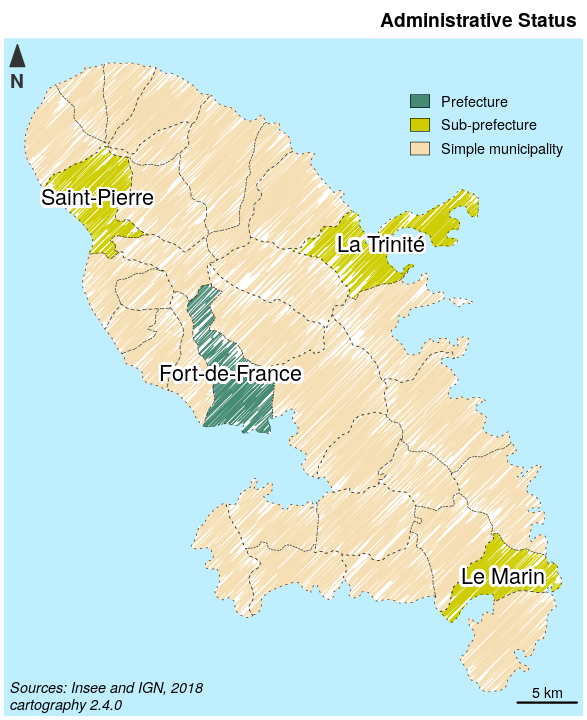
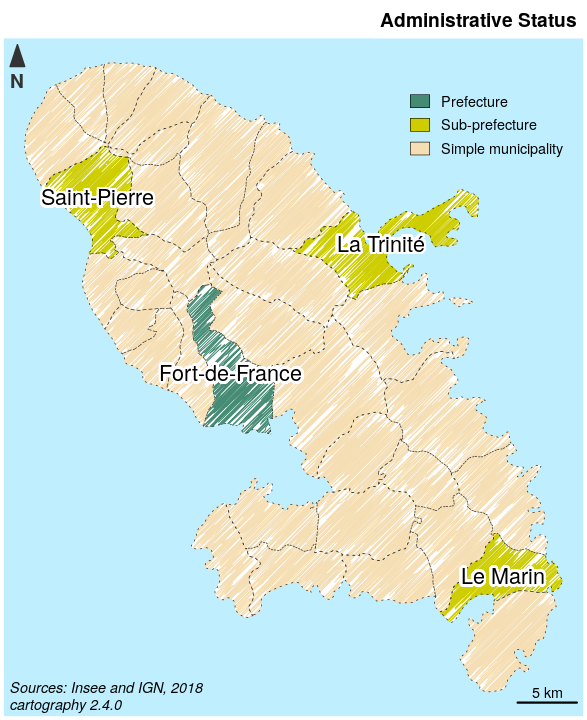
site

Changed region(s): [[0.0307, 0.0917, 0.9813, 0.9778]]

diff --git a/docs/reference/legendHatched.html b/docs/reference/legendHatched.html
@@ -232,7 +232,7 @@ Parameters would honour the order of the <code>categ</code> variable.</p>
     <pre class="examples"><div class='input'><span class='fu'><a href='https://rdrr.io/r/base/library.html'>library</a></span>(<span class='no'>sf</span>)
 <span class='no'>mtq</span> <span class='kw'>&lt;-</span>  <span class='fu'><a href='https://rdrr.io/pkg/sf/man/st_read.html'>st_read</a></span>(<span class='fu'><a href='https://rdrr.io/r/base/system.file.html'>system.file</a></span>(<span class='st'>"gpkg/mtq.gpkg"</span>,
                             <span class='kw'>package</span> <span class='kw'>=</span> <span class='st'>"cartography"</span>),
-                <span class='kw'>stringsAsFactors</span> <span class='kw'>=</span> <span class='fl'>FALSE</span>)</div><div class='output co'>#&gt; Reading layer `mtq' from data source `/tmp/Rtmp93HW5u/temp_libpathf3935a202e2/cartography/gpkg/mtq.gpkg' using driver `GPKG'
+                <span class='kw'>stringsAsFactors</span> <span class='kw'>=</span> <span class='fl'>FALSE</span>)</div><div class='output co'>#&gt; Reading layer `mtq' from data source `/tmp/Rtmpe1NJW9/temp_libpathb2e69cc94c1/cartography/gpkg/mtq.gpkg' using driver `GPKG'
 #&gt; Simple feature collection with 34 features and 7 fields
 #&gt; geometry type:  MULTIPOLYGON
 #&gt; dimension:      XY
@@ -245,22 +245,21 @@ Parameters would honour the order of the <code>categ</code> variable.</p>
           <span class='kw'>legend.values.order</span> <span class='kw'>=</span> <span class='no'>ord</span>,
           <span class='kw'>col</span> <span class='kw'>=</span> <span class='fu'><a href='https://rdrr.io/r/base/c.html'>c</a></span>(<span class='st'>"grey10"</span>, <span class='st'>"grey50"</span>, <span class='st'>"grey80"</span>),<span class='kw'>border</span> <span class='kw'>=</span> <span class='fl'>NA</span>)</div><div class='input'>
 <span class='no'>mtq</span>$<span class='no'>Patts</span> <span class='kw'>=</span> <span class='fu'><a href='https://rdrr.io/r/base/cut.html'>cut</a></span>(<span class='no'>mtq</span>$<span class='no'>MED</span>,<span class='fu'><a href='https://rdrr.io/r/base/c.html'>c</a></span>(-<span class='fl'>Inf</span>,<span class='fl'>14000</span>,<span class='fl'>18000</span>,<span class='fl'>Inf</span>), <span class='kw'>labels</span><span class='kw'>=</span><span class='fl'>FALSE</span>)
-<span class='fu'><a href='hatchedLayer.html'>hatchedLayer</a></span>( <span class='no'>mtq</span>[<span class='no'>mtq</span>$<span class='no'>Patts</span> <span class='kw'>==</span> <span class='fl'>1</span>,],<span class='st'>"zigzag"</span>,
-              <span class='kw'>density</span> <span class='kw'>=</span> <span class='fl'>2</span>,  <span class='kw'>col</span> <span class='kw'>=</span> <span class='st'>"white"</span>,  <span class='kw'>add</span> <span class='kw'>=</span> <span class='fl'>TRUE</span>,  <span class='kw'>pch</span> <span class='kw'>=</span> <span class='fl'>3</span>,  <span class='kw'>cex</span> <span class='kw'>=</span> <span class='fl'>0.6</span>)</div><div class='input'><span class='fu'><a href='hatchedLayer.html'>hatchedLayer</a></span>(<span class='no'>mtq</span>[<span class='no'>mtq</span>$<span class='no'>Patts</span> <span class='kw'>==</span> <span class='fl'>2</span>, ],<span class='st'>"horizontal"</span>,
+<span class='fu'><a href='hatchedLayer.html'>hatchedLayer</a></span>( <span class='no'>mtq</span>[<span class='no'>mtq</span>$<span class='no'>Patts</span> <span class='kw'>==</span> <span class='fl'>1</span>,],<span class='st'>"left2right"</span>,
+              <span class='kw'>density</span> <span class='kw'>=</span> <span class='fl'>2</span>,  <span class='kw'>col</span> <span class='kw'>=</span> <span class='st'>"white"</span>,  <span class='kw'>add</span> <span class='kw'>=</span> <span class='fl'>TRUE</span>,  <span class='kw'>pch</span> <span class='kw'>=</span> <span class='fl'>3</span>,  <span class='kw'>cex</span> <span class='kw'>=</span> <span class='fl'>0.6</span>)</div><div class='input'><span class='fu'><a href='hatchedLayer.html'>hatchedLayer</a></span>(<span class='no'>mtq</span>[<span class='no'>mtq</span>$<span class='no'>Patts</span> <span class='kw'>==</span> <span class='fl'>2</span>, ],<span class='st'>"left2right"</span>,
              <span class='kw'>density</span> <span class='kw'>=</span> <span class='fl'>4</span>, <span class='kw'>col</span> <span class='kw'>=</span> <span class='st'>"white"</span>, <span class='kw'>add</span> <span class='kw'>=</span> <span class='fl'>TRUE</span>)</div><div class='input'><span class='fu'><a href='hatchedLayer.html'>hatchedLayer</a></span>(<span class='no'>mtq</span>[<span class='no'>mtq</span>$<span class='no'>Patts</span> <span class='kw'>==</span> <span class='fl'>3</span>, ], <span class='st'>"left2right"</span>, <span class='kw'>col</span> <span class='kw'>=</span> <span class='st'>"white"</span>,
-             <span class='kw'>add</span> <span class='kw'>=</span> <span class='fl'>TRUE</span>, <span class='kw'>density</span> <span class='kw'>=</span> <span class='fl'>1.5</span>)</div><div class='input'>
+             <span class='kw'>add</span> <span class='kw'>=</span> <span class='fl'>TRUE</span>, <span class='kw'>density</span> <span class='kw'>=</span> <span class='fl'>6</span>)</div><div class='input'>
 <span class='fu'>legendHatched</span>(<span class='kw'>pos</span> <span class='kw'>=</span> <span class='st'>"bottomleft"</span>,
               <span class='kw'>cex</span> <span class='kw'>=</span> <span class='fl'>1.5</span>,
               <span class='kw'>values.cex</span> <span class='kw'>=</span> <span class='fl'>0.8</span>,
-              <span class='kw'>title.txt</span> <span class='kw'>=</span> <span class='st'>"Median Income (€)"</span>,
-              <span class='kw'>categ</span> <span class='kw'>=</span> <span class='fu'><a href='https://rdrr.io/r/base/c.html'>c</a></span>(<span class='st'>"&lt; 14k €"</span>,<span class='st'>"14k-18k €"</span>,<span class='st'>"&gt;18k €"</span>,
+              <span class='kw'>title.txt</span> <span class='kw'>=</span> <span class='st'>"Median Income\n(in thousand of euros)"</span>,
+              <span class='kw'>categ</span> <span class='kw'>=</span> <span class='fu'><a href='https://rdrr.io/r/base/c.html'>c</a></span>(<span class='st'>"&lt; 14"</span>,<span class='st'>"14 - 18"</span>,<span class='st'>"&gt;18"</span>,
                         <span class='st'>"Prefecture"</span>, <span class='st'>"Sub-prefecture"</span>,
                         <span class='st'>"Simple municipality"</span>),
-              <span class='kw'>patterns</span> <span class='kw'>=</span> <span class='fu'><a href='https://rdrr.io/r/base/c.html'>c</a></span>(<span class='st'>"zigzag"</span>,<span class='st'>"horizontal"</span>,<span class='st'>"left2right"</span>),
+              <span class='kw'>patterns</span> <span class='kw'>=</span> <span class='fu'><a href='https://rdrr.io/r/base/c.html'>c</a></span>(<span class='st'>"left2right"</span>), <span class='kw'>density</span> <span class='kw'>=</span> <span class='fu'><a href='https://rdrr.io/r/base/c.html'>c</a></span>(<span class='fl'>1</span>, <span class='fl'>2</span>, <span class='fl'>3</span>),
               <span class='kw'>col</span> <span class='kw'>=</span> <span class='fu'><a href='https://rdrr.io/r/base/c.html'>c</a></span>(<span class='fu'><a href='https://rdrr.io/r/base/rep.html'>rep</a></span>(<span class='st'>"black"</span>, <span class='fl'>3</span>), <span class='st'>"grey10"</span>, <span class='st'>"grey50"</span>, <span class='st'>"grey80"</span>),
               <span class='kw'>ptrn.bg</span> <span class='kw'>=</span> <span class='fu'><a href='https://rdrr.io/r/base/c.html'>c</a></span>(<span class='fu'><a href='https://rdrr.io/r/base/rep.html'>rep</a></span>(<span class='st'>"white"</span>, <span class='fl'>3</span>), <span class='st'>"grey10"</span>, <span class='st'>"grey50"</span>, <span class='st'>"grey80"</span>),
-              <span class='kw'>pch</span> <span class='kw'>=</span> <span class='fl'>3</span>
-              )</div><div class='output co'>#&gt; <span class='warning'>Warning: erreur de conversion de '&gt;18k €' dans 'mbcsToSbcs' : le point est substitué pour &lt;e2&gt;</span></div><div class='output co'>#&gt; <span class='warning'>Warning: erreur de conversion de '&gt;18k €' dans 'mbcsToSbcs' : le point est substitué pour &lt;82&gt;</span></div><div class='output co'>#&gt; <span class='warning'>Warning: erreur de conversion de '&gt;18k €' dans 'mbcsToSbcs' : le point est substitué pour &lt;ac&gt;</span></div><div class='output co'>#&gt; <span class='warning'>Warning: erreur de conversion de '14k-18k €' dans 'mbcsToSbcs' : le point est substitué pour &lt;e2&gt;</span></div><div class='output co'>#&gt; <span class='warning'>Warning: erreur de conversion de '14k-18k €' dans 'mbcsToSbcs' : le point est substitué pour &lt;82&gt;</span></div><div class='output co'>#&gt; <span class='warning'>Warning: erreur de conversion de '14k-18k €' dans 'mbcsToSbcs' : le point est substitué pour &lt;ac&gt;</span></div><div class='output co'>#&gt; <span class='warning'>Warning: erreur de conversion de '&lt; 14k €' dans 'mbcsToSbcs' : le point est substitué pour &lt;e2&gt;</span></div><div class='output co'>#&gt; <span class='warning'>Warning: erreur de conversion de '&lt; 14k €' dans 'mbcsToSbcs' : le point est substitué pour &lt;82&gt;</span></div><div class='output co'>#&gt; <span class='warning'>Warning: erreur de conversion de '&lt; 14k €' dans 'mbcsToSbcs' : le point est substitué pour &lt;ac&gt;</span></div><div class='output co'>#&gt; <span class='warning'>Warning: erreur de conversion de '&gt;18k €' dans 'mbcsToSbcs' : le point est substitué pour &lt;e2&gt;</span></div><div class='output co'>#&gt; <span class='warning'>Warning: erreur de conversion de '&gt;18k €' dans 'mbcsToSbcs' : le point est substitué pour &lt;82&gt;</span></div><div class='output co'>#&gt; <span class='warning'>Warning: erreur de conversion de '&gt;18k €' dans 'mbcsToSbcs' : le point est substitué pour &lt;ac&gt;</span></div><div class='output co'>#&gt; <span class='warning'>Warning: erreur de conversion de '14k-18k €' dans 'mbcsToSbcs' : le point est substitué pour &lt;e2&gt;</span></div><div class='output co'>#&gt; <span class='warning'>Warning: erreur de conversion de '14k-18k €' dans 'mbcsToSbcs' : le point est substitué pour &lt;82&gt;</span></div><div class='output co'>#&gt; <span class='warning'>Warning: erreur de conversion de '14k-18k €' dans 'mbcsToSbcs' : le point est substitué pour &lt;ac&gt;</span></div><div class='output co'>#&gt; <span class='warning'>Warning: erreur de conversion de '&lt; 14k €' dans 'mbcsToSbcs' : le point est substitué pour &lt;e2&gt;</span></div><div class='output co'>#&gt; <span class='warning'>Warning: erreur de conversion de '&lt; 14k €' dans 'mbcsToSbcs' : le point est substitué pour &lt;82&gt;</span></div><div class='output co'>#&gt; <span class='warning'>Warning: erreur de conversion de '&lt; 14k €' dans 'mbcsToSbcs' : le point est substitué pour &lt;ac&gt;</span></div><div class='output co'>#&gt; <span class='warning'>Warning: erreur de conversion de 'Median Income (€)' dans 'mbcsToSbcs' : le point est substitué pour &lt;e2&gt;</span></div><div class='output co'>#&gt; <span class='warning'>Warning: erreur de conversion de 'Median Income (€)' dans 'mbcsToSbcs' : le point est substitué pour &lt;82&gt;</span></div><div class='output co'>#&gt; <span class='warning'>Warning: erreur de conversion de 'Median Income (€)' dans 'mbcsToSbcs' : le point est substitué pour &lt;ac&gt;</span></div><div class='output co'>#&gt; <span class='warning'>Warning: erreur de conversion de '&gt;18k €' dans 'mbcsToSbcs' : le point est substitué pour &lt;e2&gt;</span></div><div class='output co'>#&gt; <span class='warning'>Warning: erreur de conversion de '&gt;18k €' dans 'mbcsToSbcs' : le point est substitué pour &lt;82&gt;</span></div><div class='output co'>#&gt; <span class='warning'>Warning: erreur de conversion de '&gt;18k €' dans 'mbcsToSbcs' : le point est substitué pour &lt;ac&gt;</span></div><div class='output co'>#&gt; <span class='warning'>Warning: erreur de conversion de '14k-18k €' dans 'mbcsToSbcs' : le point est substitué pour &lt;e2&gt;</span></div><div class='output co'>#&gt; <span class='warning'>Warning: erreur de conversion de '14k-18k €' dans 'mbcsToSbcs' : le point est substitué pour &lt;82&gt;</span></div><div class='output co'>#&gt; <span class='warning'>Warning: erreur de conversion de '14k-18k €' dans 'mbcsToSbcs' : le point est substitué pour &lt;ac&gt;</span></div><div class='output co'>#&gt; <span class='warning'>Warning: erreur de conversion de '&lt; 14k €' dans 'mbcsToSbcs' : le point est substitué pour &lt;e2&gt;</span></div><div class='output co'>#&gt; <span class='warning'>Warning: erreur de conversion de '&lt; 14k €' dans 'mbcsToSbcs' : le point est substitué pour &lt;82&gt;</span></div><div class='output co'>#&gt; <span class='warning'>Warning: erreur de conversion de '&lt; 14k €' dans 'mbcsToSbcs' : le point est substitué pour &lt;ac&gt;</span></div><div class='output co'>#&gt; <span class='warning'>Warning: erreur de conversion de 'Median Income (€)' dans 'mbcsToSbcs' : le point est substitué pour &lt;e2&gt;</span></div><div class='output co'>#&gt; <span class='warning'>Warning: erreur de conversion de 'Median Income (€)' dans 'mbcsToSbcs' : le point est substitué pour &lt;82&gt;</span></div><div class='output co'>#&gt; <span class='warning'>Warning: erreur de conversion de 'Median Income (€)' dans 'mbcsToSbcs' : le point est substitué pour &lt;ac&gt;</span></div><div class='input'><span class='fu'><a href='https://rdrr.io/pkg/sf/man/plot.html'>plot</a></span>(<span class='fu'><a href='https://rdrr.io/pkg/sf/man/st_geometry.html'>st_geometry</a></span>(<span class='fu'><a href='https://rdrr.io/pkg/sf/man/geos_combine.html'>st_union</a></span>(<span class='no'>mtq</span>)), <span class='kw'>add</span> <span class='kw'>=</span> <span class='fl'>TRUE</span>)</div><div class='img'><img src='legendHatched-1.png' alt='' width='525' height='504' /></div></pre>
+              <span class='kw'>pch</span> <span class='kw'>=</span> <span class='fl'>3</span>)</div><div class='input'><span class='fu'><a href='https://rdrr.io/pkg/sf/man/plot.html'>plot</a></span>(<span class='fu'><a href='https://rdrr.io/pkg/sf/man/st_geometry.html'>st_geometry</a></span>(<span class='fu'><a href='https://rdrr.io/pkg/sf/man/geos_combine.html'>st_union</a></span>(<span class='no'>mtq</span>)), <span class='kw'>add</span> <span class='kw'>=</span> <span class='fl'>TRUE</span>)</div><div class='img'><img src='legendHatched-1.png' alt='' width='525' height='504' /></div></pre>
   </div>
   <div class="col-md-3 hidden-xs hidden-sm" id="pkgdown-sidebar">
     <nav id="toc" data-toggle="toc" class="sticky-top">

diff --git a/docs/reference/getBorders.html b/docs/reference/getBorders.html
@@ -199,7 +199,7 @@ of id1 and id2 (with "_" as separator).</p>
 
     <h2 class="hasAnchor" id="examples"><a class="anchor" href="#examples"></a>Examples</h2>
     <pre class="examples"><div class='input'><span class='fu'><a href='https://rdrr.io/r/base/library.html'>library</a></span>(<span class='no'>sf</span>)
-<span class='no'>mtq</span> <span class='kw'>&lt;-</span> <span class='fu'><a href='https://rdrr.io/pkg/sf/man/st_read.html'>st_read</a></span>(<span class='fu'><a href='https://rdrr.io/r/base/system.file.html'>system.file</a></span>(<span class='st'>"gpkg/mtq.gpkg"</span>, <span class='kw'>package</span><span class='kw'>=</span><span class='st'>"cartography"</span>))</div><div class='output co'>#&gt; Reading layer `mtq' from data source `/tmp/Rtmp93HW5u/temp_libpathf3935a202e2/cartography/gpkg/mtq.gpkg' using driver `GPKG'
+<span class='no'>mtq</span> <span class='kw'>&lt;-</span> <span class='fu'><a href='https://rdrr.io/pkg/sf/man/st_read.html'>st_read</a></span>(<span class='fu'><a href='https://rdrr.io/r/base/system.file.html'>system.file</a></span>(<span class='st'>"gpkg/mtq.gpkg"</span>, <span class='kw'>package</span><span class='kw'>=</span><span class='st'>"cartography"</span>))</div><div class='output co'>#&gt; Reading layer `mtq' from data source `/tmp/Rtmpe1NJW9/temp_libpathb2e69cc94c1/cartography/gpkg/mtq.gpkg' using driver `GPKG'
 #&gt; Simple feature collection with 34 features and 7 fields
 #&gt; geometry type:  MULTIPOLYGON
 #&gt; dimension:      XY
@@ -211,7 +211,7 @@ of id1 and id2 (with "_" as separator).</p>
 <span class='fu'><a href='https://rdrr.io/pkg/sf/man/plot.html'>plot</a></span>(<span class='fu'><a href='https://rdrr.io/pkg/sf/man/st_geometry.html'>st_geometry</a></span>(<span class='no'>mtq.borders</span>),
      <span class='kw'>col</span> <span class='kw'>=</span> <span class='fu'><a href='https://rdrr.io/r/base/sample.html'>sample</a></span>(<span class='kw'>x</span> <span class='kw'>=</span> <span class='fu'><a href='https://rdrr.io/r/grDevices/palettes.html'>rainbow</a></span>(<span class='fu'><a href='https://rdrr.io/r/base/nrow.html'>nrow</a></span>(<span class='no'>mtq.borders</span>))),
      <span class='kw'>lwd</span> <span class='kw'>=</span> <span class='fl'>3</span>, <span class='kw'>add</span> <span class='kw'>=</span> <span class='fl'>TRUE</span>)</div><div class='img'><img src='getBorders-1.png' alt='' width='525' height='504' /></div><div class='input'><span class='fu'><a href='https://rdrr.io/r/base/library.html'>library</a></span>(<span class='no'>sf</span>)
-<span class='no'>mtq</span> <span class='kw'>&lt;-</span> <span class='fu'><a href='https://rdrr.io/pkg/sf/man/st_read.html'>st_read</a></span>(<span class='fu'><a href='https://rdrr.io/r/base/system.file.html'>system.file</a></span>(<span class='st'>"gpkg/mtq.gpkg"</span>, <span class='kw'>package</span><span class='kw'>=</span><span class='st'>"cartography"</span>))</div><div class='output co'>#&gt; Reading layer `mtq' from data source `/tmp/Rtmp93HW5u/temp_libpathf3935a202e2/cartography/gpkg/mtq.gpkg' using driver `GPKG'
+<span class='no'>mtq</span> <span class='kw'>&lt;-</span> <span class='fu'><a href='https://rdrr.io/pkg/sf/man/st_read.html'>st_read</a></span>(<span class='fu'><a href='https://rdrr.io/r/base/system.file.html'>system.file</a></span>(<span class='st'>"gpkg/mtq.gpkg"</span>, <span class='kw'>package</span><span class='kw'>=</span><span class='st'>"cartography"</span>))</div><div class='output co'>#&gt; Reading layer `mtq' from data source `/tmp/Rtmpe1NJW9/temp_libpathb2e69cc94c1/cartography/gpkg/mtq.gpkg' using driver `GPKG'
 #&gt; Simple feature collection with 34 features and 7 fields
 #&gt; geometry type:  MULTIPOLYGON
 #&gt; dimension:      XY

diff --git a/docs/reference/barscale.html b/docs/reference/barscale.html
@@ -193,7 +193,7 @@ set, an automatic size is used (1/10 of the map width).</p></td>
     <div class='dont-index'><p><a href='layoutLayer.html'>layoutLayer</a></p></div>
 
     <h2 class="hasAnchor" id="examples"><a class="anchor" href="#examples"></a>Examples</h2>
-    <pre class="examples"><div class='input'><span class='fu'><a href='https://rdrr.io/r/base/library.html'>library</a></span>(<span class='no'>sf</span>)</div><div class='output co'>#&gt; <span class='message'>Linking to GEOS 3.7.1, GDAL 2.4.0, PROJ 5.2.0</span></div><div class='input'><span class='no'>mtq</span> <span class='kw'>&lt;-</span> <span class='fu'><a href='https://rdrr.io/pkg/sf/man/st_read.html'>st_read</a></span>(<span class='fu'><a href='https://rdrr.io/r/base/system.file.html'>system.file</a></span>(<span class='st'>"gpkg/mtq.gpkg"</span>, <span class='kw'>package</span><span class='kw'>=</span><span class='st'>"cartography"</span>))</div><div class='output co'>#&gt; Reading layer `mtq' from data source `/tmp/Rtmp93HW5u/temp_libpathf3935a202e2/cartography/gpkg/mtq.gpkg' using driver `GPKG'
+    <pre class="examples"><div class='input'><span class='fu'><a href='https://rdrr.io/r/base/library.html'>library</a></span>(<span class='no'>sf</span>)</div><div class='output co'>#&gt; <span class='message'>Linking to GEOS 3.7.1, GDAL 2.4.0, PROJ 5.2.0</span></div><div class='input'><span class='no'>mtq</span> <span class='kw'>&lt;-</span> <span class='fu'><a href='https://rdrr.io/pkg/sf/man/st_read.html'>st_read</a></span>(<span class='fu'><a href='https://rdrr.io/r/base/system.file.html'>system.file</a></span>(<span class='st'>"gpkg/mtq.gpkg"</span>, <span class='kw'>package</span><span class='kw'>=</span><span class='st'>"cartography"</span>))</div><div class='output co'>#&gt; Reading layer `mtq' from data source `/tmp/Rtmpe1NJW9/temp_libpathb2e69cc94c1/cartography/gpkg/mtq.gpkg' using driver `GPKG'
 #&gt; Simple feature collection with 34 features and 7 fields
 #&gt; geometry type:  MULTIPOLYGON
 #&gt; dimension:      XY

diff --git a/docs/reference/labelLayer.html b/docs/reference/labelLayer.html
@@ -235,7 +235,7 @@ arguments bg and r can be modified to set the color and width of the halo.</p></
     <h2 class="hasAnchor" id="examples"><a class="anchor" href="#examples"></a>Examples</h2>
     <pre class="examples"><div class='input'><span class='fu'><a href='https://rdrr.io/r/base/library.html'>library</a></span>(<span class='no'>sf</span>)
 <span class='no'>opar</span> <span class='kw'>&lt;-</span> <span class='fu'><a href='https://rdrr.io/r/graphics/par.html'>par</a></span>(<span class='kw'>mar</span> <span class='kw'>=</span> <span class='fu'><a href='https://rdrr.io/r/base/c.html'>c</a></span>(<span class='fl'>0</span>,<span class='fl'>0</span>,<span class='fl'>0</span>,<span class='fl'>0</span>))
-<span class='no'>mtq</span> <span class='kw'>&lt;-</span> <span class='fu'><a href='https://rdrr.io/pkg/sf/man/st_read.html'>st_read</a></span>(<span class='fu'><a href='https://rdrr.io/r/base/system.file.html'>system.file</a></span>(<span class='st'>"gpkg/mtq.gpkg"</span>, <span class='kw'>package</span><span class='kw'>=</span><span class='st'>"cartography"</span>))</div><div class='output co'>#&gt; Reading layer `mtq' from data source `/tmp/Rtmp93HW5u/temp_libpathf3935a202e2/cartography/gpkg/mtq.gpkg' using driver `GPKG'
+<span class='no'>mtq</span> <span class='kw'>&lt;-</span> <span class='fu'><a href='https://rdrr.io/pkg/sf/man/st_read.html'>st_read</a></span>(<span class='fu'><a href='https://rdrr.io/r/base/system.file.html'>system.file</a></span>(<span class='st'>"gpkg/mtq.gpkg"</span>, <span class='kw'>package</span><span class='kw'>=</span><span class='st'>"cartography"</span>))</div><div class='output co'>#&gt; Reading layer `mtq' from data source `/tmp/Rtmpe1NJW9/temp_libpathb2e69cc94c1/cartography/gpkg/mtq.gpkg' using driver `GPKG'
 #&gt; Simple feature collection with 34 features and 7 fields
 #&gt; geometry type:  MULTIPOLYGON
 #&gt; dimension:      XY

diff --git a/docs/reference/discLayer.html b/docs/reference/discLayer.html
@@ -285,7 +285,7 @@ The "abs" type of discontinuity is the result of pmax(value unit 1 - value unit 
 
     <h2 class="hasAnchor" id="examples"><a class="anchor" href="#examples"></a>Examples</h2>
     <pre class="examples"><div class='input'><span class='fu'><a href='https://rdrr.io/r/base/library.html'>library</a></span>(<span class='no'>sf</span>)
-<span class='no'>mtq</span> <span class='kw'>&lt;-</span> <span class='fu'><a href='https://rdrr.io/pkg/sf/man/st_read.html'>st_read</a></span>(<span class='fu'><a href='https://rdrr.io/r/base/system.file.html'>system.file</a></span>(<span class='st'>"gpkg/mtq.gpkg"</span>, <span class='kw'>package</span><span class='kw'>=</span><span class='st'>"cartography"</span>))</div><div class='output co'>#&gt; Reading layer `mtq' from data source `/tmp/Rtmp93HW5u/temp_libpathf3935a202e2/cartography/gpkg/mtq.gpkg' using driver `GPKG'
+<span class='no'>mtq</span> <span class='kw'>&lt;-</span> <span class='fu'><a href='https://rdrr.io/pkg/sf/man/st_read.html'>st_read</a></span>(<span class='fu'><a href='https://rdrr.io/r/base/system.file.html'>system.file</a></span>(<span class='st'>"gpkg/mtq.gpkg"</span>, <span class='kw'>package</span><span class='kw'>=</span><span class='st'>"cartography"</span>))</div><div class='output co'>#&gt; Reading layer `mtq' from data source `/tmp/Rtmpe1NJW9/temp_libpathb2e69cc94c1/cartography/gpkg/mtq.gpkg' using driver `GPKG'
 #&gt; Simple feature collection with 34 features and 7 fields
 #&gt; geometry type:  MULTIPOLYGON
 #&gt; dimension:      XY

diff --git a/docs/reference/getBreaks.html b/docs/reference/getBreaks.html
@@ -203,7 +203,7 @@ the mean value is the center of a class else the mean is a break value.</p>
 
     <h2 class="hasAnchor" id="examples"><a class="anchor" href="#examples"></a>Examples</h2>
     <pre class="examples"><div class='input'><span class='fu'><a href='https://rdrr.io/r/base/library.html'>library</a></span>(<span class='no'>sf</span>)
-<span class='no'>mtq</span> <span class='kw'>&lt;-</span> <span class='fu'><a href='https://rdrr.io/pkg/sf/man/st_read.html'>st_read</a></span>(<span class='fu'><a href='https://rdrr.io/r/base/system.file.html'>system.file</a></span>(<span class='st'>"gpkg/mtq.gpkg"</span>, <span class='kw'>package</span><span class='kw'>=</span><span class='st'>"cartography"</span>))</div><div class='output co'>#&gt; Reading layer `mtq' from data source `/tmp/Rtmp93HW5u/temp_libpathf3935a202e2/cartography/gpkg/mtq.gpkg' using driver `GPKG'
+<span class='no'>mtq</span> <span class='kw'>&lt;-</span> <span class='fu'><a href='https://rdrr.io/pkg/sf/man/st_read.html'>st_read</a></span>(<span class='fu'><a href='https://rdrr.io/r/base/system.file.html'>system.file</a></span>(<span class='st'>"gpkg/mtq.gpkg"</span>, <span class='kw'>package</span><span class='kw'>=</span><span class='st'>"cartography"</span>))</div><div class='output co'>#&gt; Reading layer `mtq' from data source `/tmp/Rtmpe1NJW9/temp_libpathb2e69cc94c1/cartography/gpkg/mtq.gpkg' using driver `GPKG'
 #&gt; Simple feature collection with 34 features and 7 fields
 #&gt; geometry type:  MULTIPOLYGON
 #&gt; dimension:      XY

diff --git a/docs/reference/layoutLayer.html b/docs/reference/layoutLayer.html
@@ -249,7 +249,7 @@ The size of the title box in layoutLayer is fixed to 1.2 lines height.</p>
 
     <h2 class="hasAnchor" id="examples"><a class="anchor" href="#examples"></a>Examples</h2>
     <pre class="examples"><div class='input'><span class='fu'><a href='https://rdrr.io/r/base/library.html'>library</a></span>(<span class='no'>sf</span>)
-<span class='no'>mtq</span> <span class='kw'>&lt;-</span> <span class='fu'><a href='https://rdrr.io/pkg/sf/man/st_read.html'>st_read</a></span>(<span class='fu'><a href='https://rdrr.io/r/base/system.file.html'>system.file</a></span>(<span class='st'>"gpkg/mtq.gpkg"</span>, <span class='kw'>package</span><span class='kw'>=</span><span class='st'>"cartography"</span>))</div><div class='output co'>#&gt; Reading layer `mtq' from data source `/tmp/Rtmp93HW5u/temp_libpathf3935a202e2/cartography/gpkg/mtq.gpkg' using driver `GPKG'
+<span class='no'>mtq</span> <span class='kw'>&lt;-</span> <span class='fu'><a href='https://rdrr.io/pkg/sf/man/st_read.html'>st_read</a></span>(<span class='fu'><a href='https://rdrr.io/r/base/system.file.html'>system.file</a></span>(<span class='st'>"gpkg/mtq.gpkg"</span>, <span class='kw'>package</span><span class='kw'>=</span><span class='st'>"cartography"</span>))</div><div class='output co'>#&gt; Reading layer `mtq' from data source `/tmp/Rtmpe1NJW9/temp_libpathb2e69cc94c1/cartography/gpkg/mtq.gpkg' using driver `GPKG'
 #&gt; Simple feature collection with 34 features and 7 fields
 #&gt; geometry type:  MULTIPOLYGON
 #&gt; dimension:      XY

diff --git a/docs/reference/legendBarsSymbols.html b/docs/reference/legendBarsSymbols.html
@@ -225,7 +225,7 @@ styles, "c" stands for compact and "e" for extended.</p></td>
 
     <h2 class="hasAnchor" id="examples"><a class="anchor" href="#examples"></a>Examples</h2>
     <pre class="examples"><div class='input'><span class='fu'><a href='https://rdrr.io/r/base/library.html'>library</a></span>(<span class='no'>sf</span>)
-<span class='no'>mtq</span> <span class='kw'>&lt;-</span> <span class='fu'><a href='https://rdrr.io/pkg/sf/man/st_read.html'>st_read</a></span>(<span class='fu'><a href='https://rdrr.io/r/base/system.file.html'>system.file</a></span>(<span class='st'>"gpkg/mtq.gpkg"</span>, <span class='kw'>package</span><span class='kw'>=</span><span class='st'>"cartography"</span>))</div><div class='output co'>#&gt; Reading layer `mtq' from data source `/tmp/Rtmp93HW5u/temp_libpathf3935a202e2/cartography/gpkg/mtq.gpkg' using driver `GPKG'
+<span class='no'>mtq</span> <span class='kw'>&lt;-</span> <span class='fu'><a href='https://rdrr.io/pkg/sf/man/st_read.html'>st_read</a></span>(<span class='fu'><a href='https://rdrr.io/r/base/system.file.html'>system.file</a></span>(<span class='st'>"gpkg/mtq.gpkg"</span>, <span class='kw'>package</span><span class='kw'>=</span><span class='st'>"cartography"</span>))</div><div class='output co'>#&gt; Reading layer `mtq' from data source `/tmp/Rtmpe1NJW9/temp_libpathb2e69cc94c1/cartography/gpkg/mtq.gpkg' using driver `GPKG'
 #&gt; Simple feature collection with 34 features and 7 fields
 #&gt; geometry type:  MULTIPOLYGON
 #&gt; dimension:      XY

diff --git a/docs/reference/legendCirclesSymbols.html b/docs/reference/legendCirclesSymbols.html
@@ -225,7 +225,7 @@ styles, "c" stands for compact and "e" for extended.</p></td>
 
     <h2 class="hasAnchor" id="examples"><a class="anchor" href="#examples"></a>Examples</h2>
     <pre class="examples"><div class='input'><span class='fu'><a href='https://rdrr.io/r/base/library.html'>library</a></span>(<span class='no'>sf</span>)
-<span class='no'>mtq</span> <span class='kw'>&lt;-</span> <span class='fu'><a href='https://rdrr.io/pkg/sf/man/st_read.html'>st_read</a></span>(<span class='fu'><a href='https://rdrr.io/r/base/system.file.html'>system.file</a></span>(<span class='st'>"gpkg/mtq.gpkg"</span>, <span class='kw'>package</span><span class='kw'>=</span><span class='st'>"cartography"</span>))</div><div class='output co'>#&gt; Reading layer `mtq' from data source `/tmp/Rtmp93HW5u/temp_libpathf3935a202e2/cartography/gpkg/mtq.gpkg' using driver `GPKG'
+<span class='no'>mtq</span> <span class='kw'>&lt;-</span> <span class='fu'><a href='https://rdrr.io/pkg/sf/man/st_read.html'>st_read</a></span>(<span class='fu'><a href='https://rdrr.io/r/base/system.file.html'>system.file</a></span>(<span class='st'>"gpkg/mtq.gpkg"</span>, <span class='kw'>package</span><span class='kw'>=</span><span class='st'>"cartography"</span>))</div><div class='output co'>#&gt; Reading layer `mtq' from data source `/tmp/Rtmpe1NJW9/temp_libpathb2e69cc94c1/cartography/gpkg/mtq.gpkg' using driver `GPKG'
 #&gt; Simple feature collection with 34 features and 7 fields
 #&gt; geometry type:  MULTIPOLYGON
 #&gt; dimension:      XY

diff --git a/docs/reference/legendPropTriangles.html b/docs/reference/legendPropTriangles.html
@@ -239,7 +239,7 @@ styles, "c" stands for compact and "e" for extended.</p></td>
 
     <h2 class="hasAnchor" id="examples"><a class="anchor" href="#examples"></a>Examples</h2>
     <pre class="examples"><div class='input'><span class='fu'><a href='https://rdrr.io/r/base/library.html'>library</a></span>(<span class='no'>sf</span>)
-<span class='no'>mtq</span> <span class='kw'>&lt;-</span> <span class='fu'><a href='https://rdrr.io/pkg/sf/man/st_read.html'>st_read</a></span>(<span class='fu'><a href='https://rdrr.io/r/base/system.file.html'>system.file</a></span>(<span class='st'>"gpkg/mtq.gpkg"</span>, <span class='kw'>package</span><span class='kw'>=</span><span class='st'>"cartography"</span>))</div><div class='output co'>#&gt; Reading layer `mtq' from data source `/tmp/Rtmp93HW5u/temp_libpathf3935a202e2/cartography/gpkg/mtq.gpkg' using driver `GPKG'
+<span class='no'>mtq</span> <span class='kw'>&lt;-</span> <span class='fu'><a href='https://rdrr.io/pkg/sf/man/st_read.html'>st_read</a></span>(<span class='fu'><a href='https://rdrr.io/r/base/system.file.html'>system.file</a></span>(<span class='st'>"gpkg/mtq.gpkg"</span>, <span class='kw'>package</span><span class='kw'>=</span><span class='st'>"cartography"</span>))</div><div class='output co'>#&gt; Reading layer `mtq' from data source `/tmp/Rtmpe1NJW9/temp_libpathb2e69cc94c1/cartography/gpkg/mtq.gpkg' using driver `GPKG'
 #&gt; Simple feature collection with 34 features and 7 fields
 #&gt; geometry type:  MULTIPOLYGON
 #&gt; dimension:      XY

diff --git a/docs/reference/legendSquaresSymbols.html b/docs/reference/legendSquaresSymbols.html
@@ -225,7 +225,7 @@ styles, "c" stands for compact and "e" for extended.</p></td>
 
     <h2 class="hasAnchor" id="examples"><a class="anchor" href="#examples"></a>Examples</h2>
     <pre class="examples"><div class='input'><span class='fu'><a href='https://rdrr.io/r/base/library.html'>library</a></span>(<span class='no'>sf</span>)
-<span class='no'>mtq</span> <span class='kw'>&lt;-</span> <span class='fu'><a href='https://rdrr.io/pkg/sf/man/st_read.html'>st_read</a></span>(<span class='fu'><a href='https://rdrr.io/r/base/system.file.html'>system.file</a></span>(<span class='st'>"gpkg/mtq.gpkg"</span>, <span class='kw'>package</span><span class='kw'>=</span><span class='st'>"cartography"</span>))</div><div class='output co'>#&gt; Reading layer `mtq' from data source `/tmp/Rtmp93HW5u/temp_libpathf3935a202e2/cartography/gpkg/mtq.gpkg' using driver `GPKG'
+<span class='no'>mtq</span> <span class='kw'>&lt;-</span> <span class='fu'><a href='https://rdrr.io/pkg/sf/man/st_read.html'>st_read</a></span>(<span class='fu'><a href='https://rdrr.io/r/base/system.file.html'>system.file</a></span>(<span class='st'>"gpkg/mtq.gpkg"</span>, <span class='kw'>package</span><span class='kw'>=</span><span class='st'>"cartography"</span>))</div><div class='output co'>#&gt; Reading layer `mtq' from data source `/tmp/Rtmpe1NJW9/temp_libpathb2e69cc94c1/cartography/gpkg/mtq.gpkg' using driver `GPKG'
 #&gt; Simple feature collection with 34 features and 7 fields
 #&gt; geometry type:  MULTIPOLYGON
 #&gt; dimension:      XY

diff --git a/docs/reference/north.html b/docs/reference/north.html
@@ -174,7 +174,7 @@ vector of two coordinates in map units (c(x, y)).</p></td>
 
     <h2 class="hasAnchor" id="examples"><a class="anchor" href="#examples"></a>Examples</h2>
     <pre class="examples"><div class='input'><span class='fu'><a href='https://rdrr.io/r/base/library.html'>library</a></span>(<span class='no'>sf</span>)
-<span class='no'>mtq</span> <span class='kw'>&lt;-</span> <span class='fu'><a href='https://rdrr.io/pkg/sf/man/st_read.html'>st_read</a></span>(<span class='fu'><a href='https://rdrr.io/r/base/system.file.html'>system.file</a></span>(<span class='st'>"gpkg/mtq.gpkg"</span>, <span class='kw'>package</span><span class='kw'>=</span><span class='st'>"cartography"</span>))</div><div class='output co'>#&gt; Reading layer `mtq' from data source `/tmp/Rtmp93HW5u/temp_libpathf3935a202e2/cartography/gpkg/mtq.gpkg' using driver `GPKG'
+<span class='no'>mtq</span> <span class='kw'>&lt;-</span> <span class='fu'><a href='https://rdrr.io/pkg/sf/man/st_read.html'>st_read</a></span>(<span class='fu'><a href='https://rdrr.io/r/base/system.file.html'>system.file</a></span>(<span class='st'>"gpkg/mtq.gpkg"</span>, <span class='kw'>package</span><span class='kw'>=</span><span class='st'>"cartography"</span>))</div><div class='output co'>#&gt; Reading layer `mtq' from data source `/tmp/Rtmpe1NJW9/temp_libpathb2e69cc94c1/cartography/gpkg/mtq.gpkg' using driver `GPKG'
 #&gt; Simple feature collection with 34 features and 7 fields
 #&gt; geometry type:  MULTIPOLYGON
 #&gt; dimension:      XY
